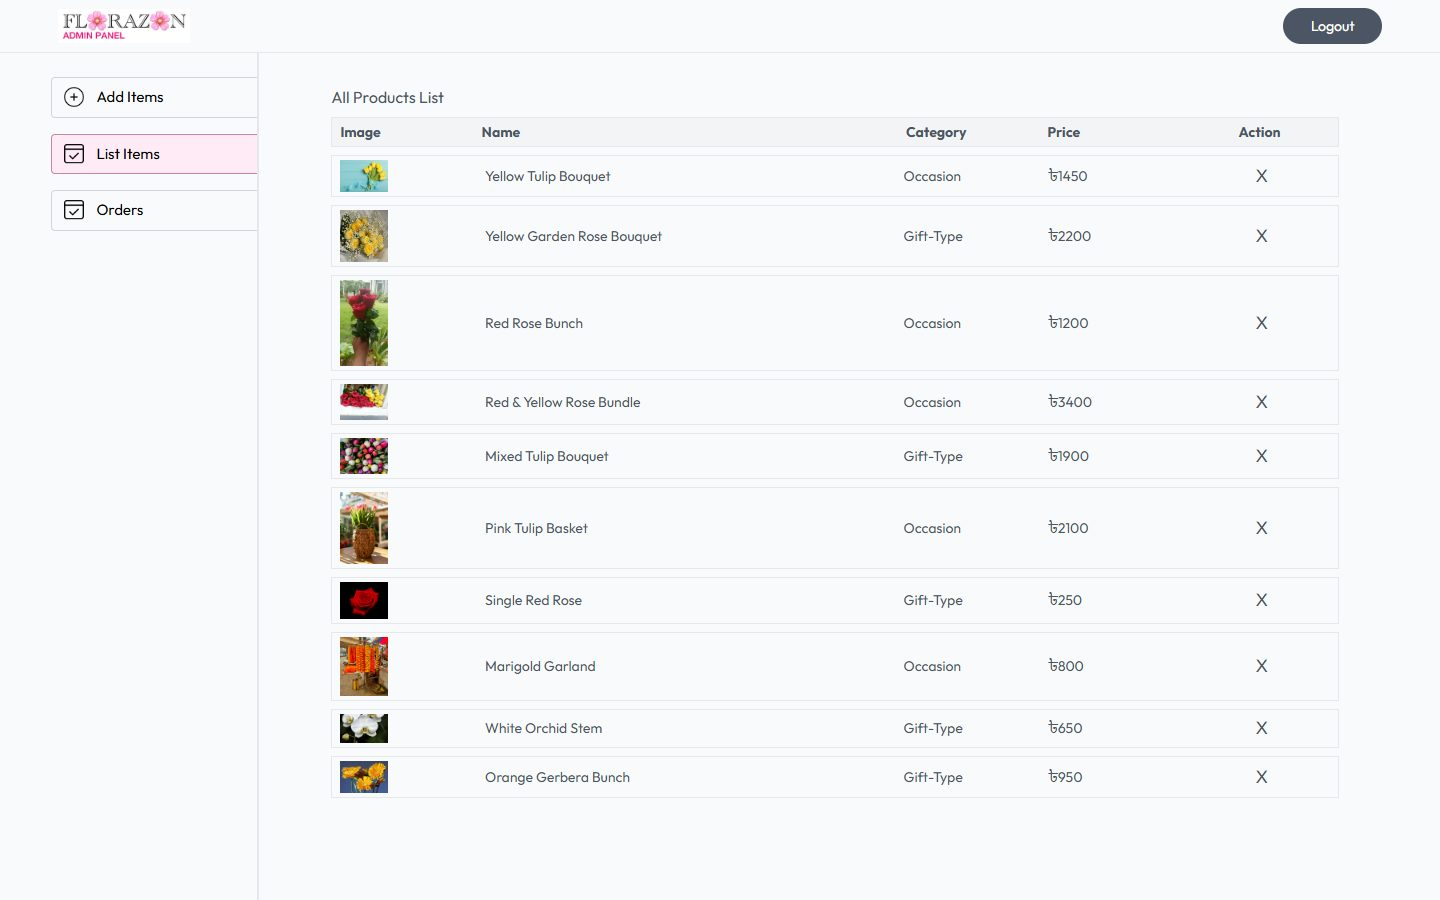
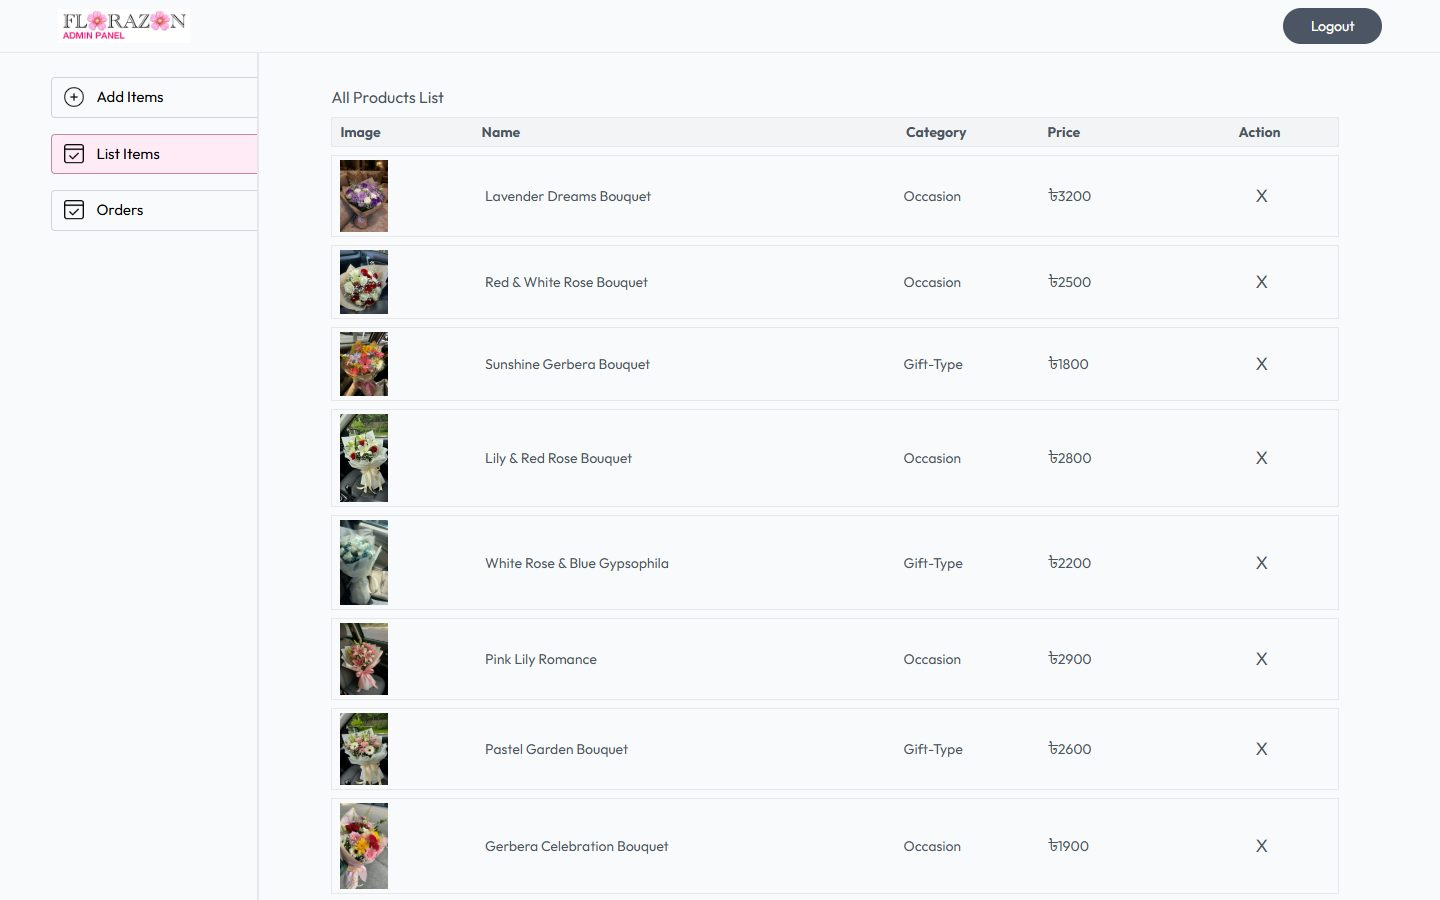
Update screenshots with owner-supplied product photos and add sample catalogue to README

diff --git a/README.md b/README.md
@@ -46,7 +46,20 @@ The repository contains three independent applications:
 
 ## Screenshots
 
-The screenshots show sample catalogue data.
+The screenshots use the sample catalogue below.
+
+| Product | Description | Category | Sizes | Price (BDT) |
+| --- | --- | --- | --- | --- |
+| Lavender Dreams Bouquet | Purple, lilac and white roses with lilac stock, lisianthus buds and gypsophila in kraft paper with a lavender ribbon | Occasion | M, L | 3,200 |
+| Red & White Rose Bouquet | Red and white roses filled with gypsophila in natural kraft paper | Occasion | S, M, L | 2,500 |
+| Sunshine Gerbera Bouquet | Yellow, pink, lilac and cream gerberas with orange spray roses, daisies and solidago, finished with a pink ribbon | Gift-Type | S, M | 1,800 |
+| Lily & Red Rose Bouquet | White oriental lilies and red roses with gypsophila in a white wrap with a champagne satin ribbon | Occasion | M, L | 2,800 |
+| White Rose & Blue Gypsophila | White roses with blue-tinted gypsophila in white tissue wrapping | Gift-Type | M, L | 2,200 |
+| Pink Lily Romance | Pink stargazer lilies and pink roses with gypsophila in a blush wrap with a pink satin bow | Occasion | M, L | 2,900 |
+| Pastel Garden Bouquet | Peach roses, white gerberas, pink lisianthus, a pink lily, statice and eucalyptus in a white wrap | Gift-Type | M, L | 2,600 |
+| Gerbera Celebration Bouquet | Red, pink and yellow gerberas with white daisies, a peach rose and gypsophila in a pink wrap | Occasion | S, M | 1,900 |
+| Yellow Tulip Bouquet | Yellow tulips tied with a blue polka-dot ribbon | Gift-Type | S, M, L | 1,450 |
+| Yellow Garden Rose Bouquet | Yellow garden roses with gypsophila in white paper | Gift-Type | M, L | 2,200 |
 
 | Collection with filters | Product details |
 | --- | --- |
